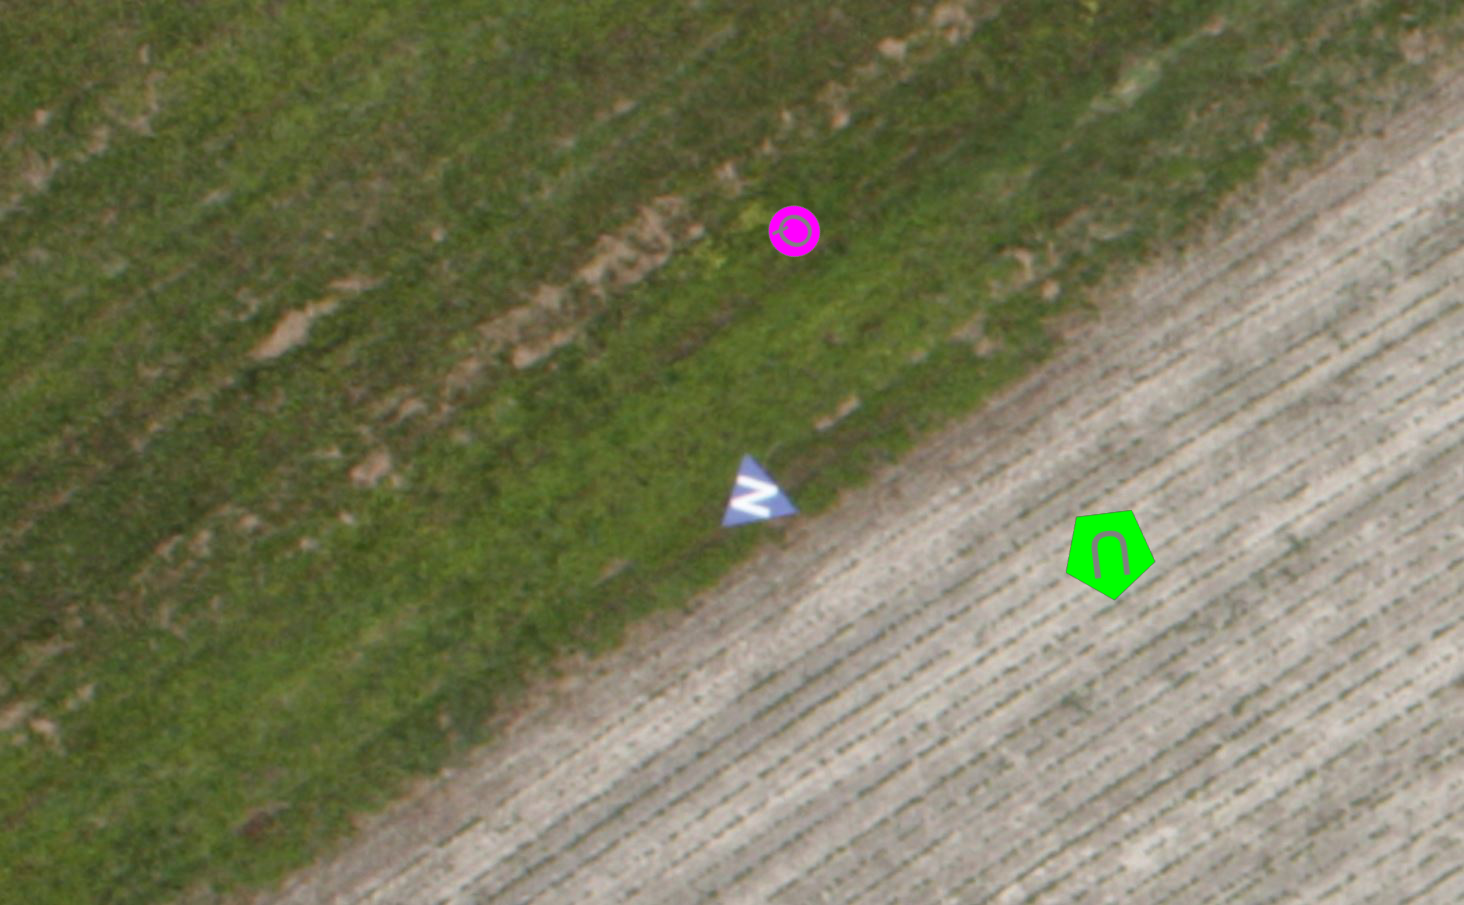
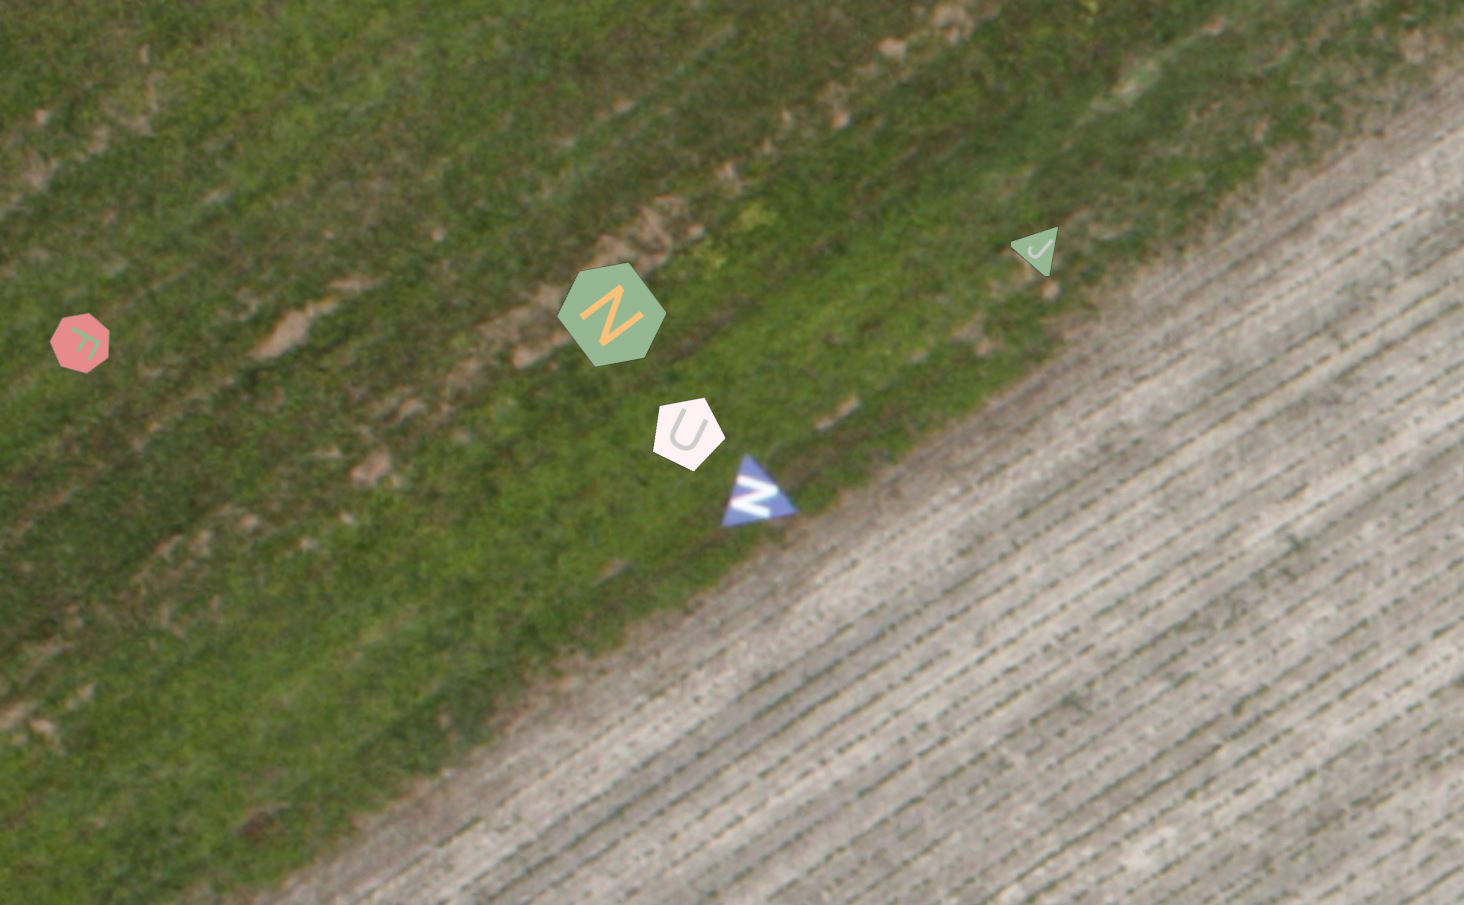
update proto.py
update colors in color_dict to match group photo from auvsi 2019 comptetition; may need further editing

diff --git a/proto.py b/proto.py
@@ -88,17 +88,17 @@ Alphanum = ['0', '1', '2', '3', '4', '5', '6', '7', '8', '9',
             'k', 'l', 'm', 'n', 'o', 'p', 'q', 'r', 's', 't',
             'u', 'v', 'w', 'x', ' y', 'z']
 
-color_dict = {
-    Color.White:    '0xffffff',
-    Color.Black:    '0x000000',
-    Color.Gray:     '0x808080',
-    Color.Red:      '0xff0000',
-    Color.Blue:     '0x0000ff',  # Sampled from 0602.jpg (192,   137,    121)
-    Color.Green:    '0x00ff00',
-    Color.Yellow:   '0x00ffff',
-    Color.Purple:   '0xff00ff',
-    Color.Brown:    '0x422100',
-    Color.Orange:   '0xff8000'
+color_dict = {  # Sampled from https://www.auvsi-suas.org/
+    Color.White:    '0xfff2f5',
+    Color.Black:    '0x1d1d29',
+    Color.Gray:     '0xcbcccb',
+    Color.Red:      '0xe68a8c',
+    Color.Blue:     '0x90a8d0',
+    Color.Green:    '0x95b893',
+    Color.Yellow:   '0xf7ef84',
+    Color.Purple:   '0x9a81bb',
+    Color.Brown:    '0xe3ba8f',
+    Color.Orange:   '0xfbc077'
 }
 
 

diff --git a/image_generator.py b/image_generator.py
@@ -144,7 +144,6 @@ def write_image_and_json(target_list, file_number, img):
     json_file.write(json_string)
     json_file.close()
 
-
 if __name__ == '__main__':
     params = parse()
     background_image = cv2.imread(params.input_file)
